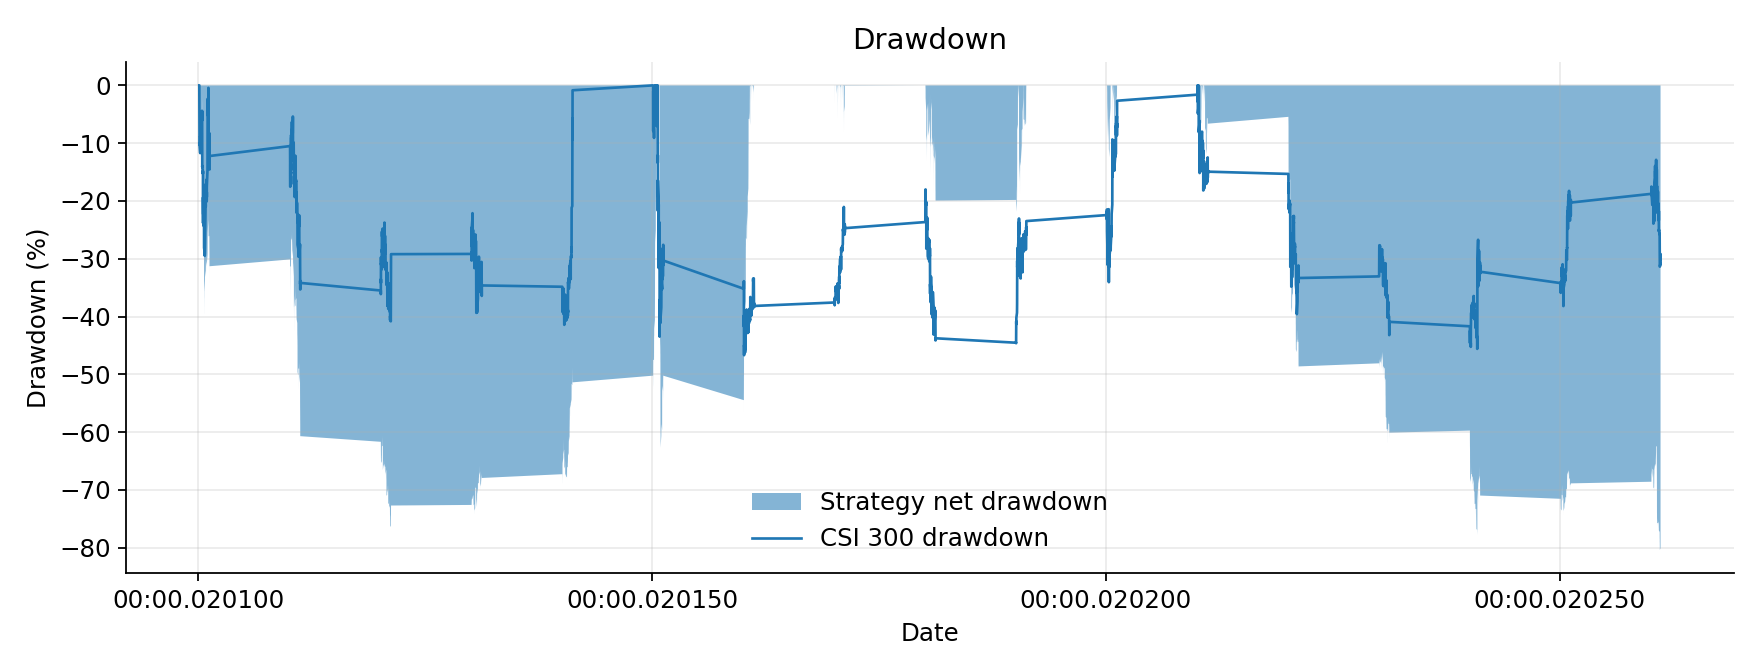
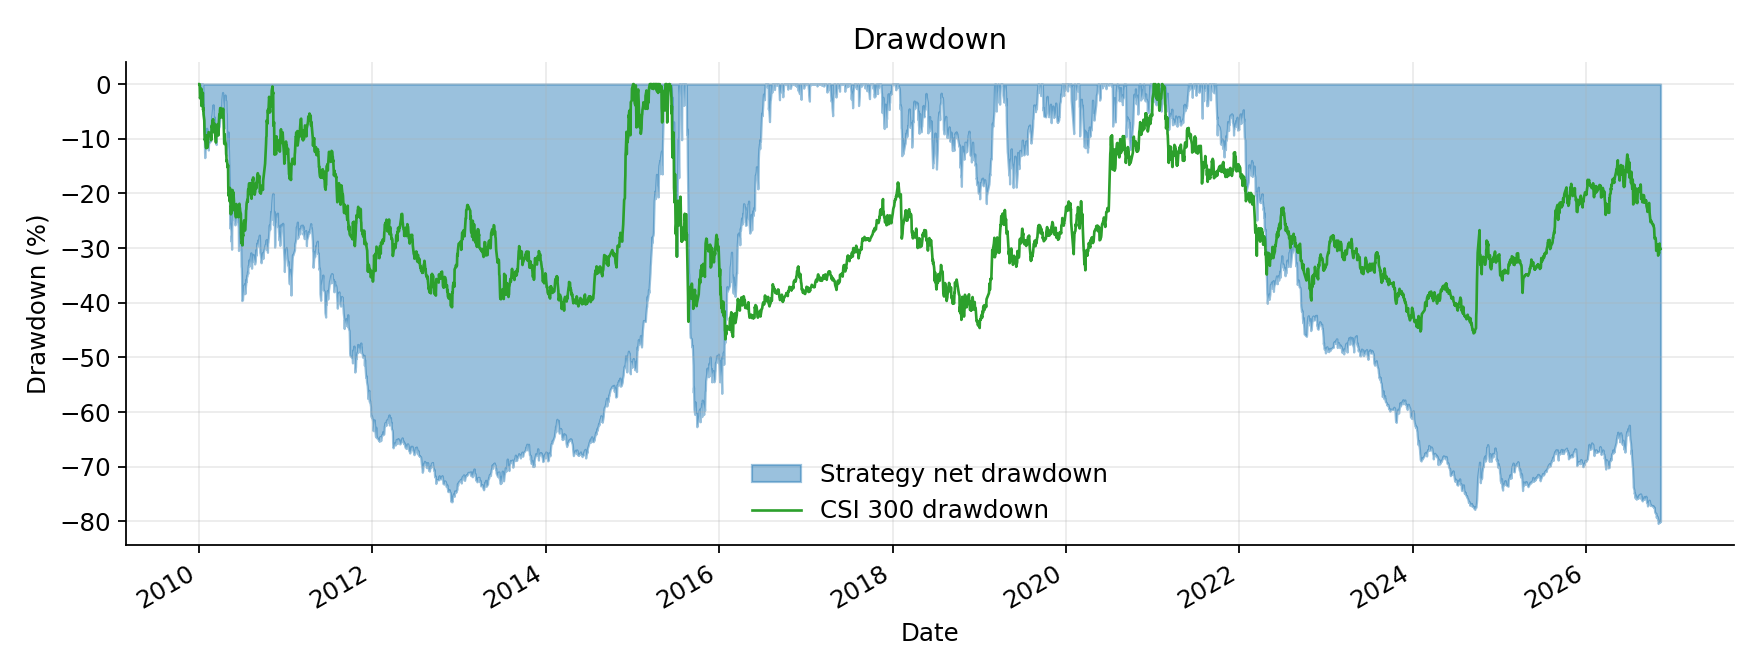
Fix equity-curve date parsing so charts render as continuous time series.
YYYYMMDD ints were parsed as nanoseconds, which crushed the x-axis into a vertical mess.

diff --git a/plot_results.py b/plot_results.py
@@ -30,30 +30,37 @@ def main() -> None:
     FIG.mkdir(parents=True, exist_ok=True)
 
     nav = pd.read_csv(OUT / "nav.csv")
-    nav["trade_date"] = pd.to_datetime(nav["trade_date"])
+    # CSV may store dates as ints like 20100104; force YYYYMMDD parsing
+    nav["trade_date"] = pd.to_datetime(nav["trade_date"].astype(str), format="%Y%m%d")
     yearly = pd.read_csv(OUT / "yearly.csv")
 
-    # 1) NAV curves
-    fig, ax = plt.subplots(figsize=(11, 5.5))
-    ax.plot(nav["trade_date"], nav["strategy_nav"], label="Strategy (net of costs)", lw=1.8)
-    ax.plot(nav["trade_date"], nav["strategy_nav_gross"], label="Strategy (gross)", lw=1.2, alpha=0.75)
-    ax.plot(nav["trade_date"], nav["bench_nav"], label="CSI 300", lw=1.4)
-    ax.set_title("Equity Curve: MACD Water Golden-Cross vs CSI 300")
-    ax.set_xlabel("Date")
-    ax.set_ylabel("NAV (start = 1)")
-    ax.legend(frameon=False)
+    # 1) NAV curves — dual panel so gross scale does not crush net/bench
+    fig, axes = plt.subplots(2, 1, figsize=(11, 7.2), sharex=True, gridspec_kw={"height_ratios": [1.15, 1]})
+    axes[0].plot(nav["trade_date"], nav["strategy_nav"], label="Strategy (net of costs)", color="#1f77b4", lw=1.6)
+    axes[0].plot(nav["trade_date"], nav["bench_nav"], label="CSI 300", color="#2ca02c", lw=1.4)
+    axes[0].set_ylabel("NAV (start = 1)")
+    axes[0].set_title("Equity Curve: MACD Water Golden-Cross vs CSI 300")
+    axes[0].legend(frameon=False, loc="upper left")
+
+    axes[1].plot(nav["trade_date"], nav["strategy_nav_gross"], label="Strategy (gross, no costs)", color="#ff7f0e", lw=1.4)
+    axes[1].plot(nav["trade_date"], nav["strategy_nav"], label="Strategy (net)", color="#1f77b4", lw=1.2, alpha=0.85)
+    axes[1].set_xlabel("Date")
+    axes[1].set_ylabel("NAV (start = 1)")
+    axes[1].legend(frameon=False, loc="upper left")
+    fig.autofmt_xdate()
     fig.tight_layout()
     fig.savefig(FIG / "equity_curve.png", dpi=160)
     plt.close(fig)
 
     # 2) Drawdown
     fig, ax = plt.subplots(figsize=(11, 4.2))
-    ax.fill_between(nav["trade_date"], nav["drawdown"] * 100, 0, alpha=0.55, label="Strategy net drawdown")
-    ax.plot(nav["trade_date"], nav["bench_drawdown"] * 100, lw=1.2, label="CSI 300 drawdown")
+    ax.fill_between(nav["trade_date"], nav["drawdown"] * 100, 0, alpha=0.45, color="#1f77b4", label="Strategy net drawdown")
+    ax.plot(nav["trade_date"], nav["bench_drawdown"] * 100, color="#2ca02c", lw=1.2, label="CSI 300 drawdown")
     ax.set_title("Drawdown")
     ax.set_xlabel("Date")
     ax.set_ylabel("Drawdown (%)")
     ax.legend(frameon=False)
+    fig.autofmt_xdate()
     fig.tight_layout()
     fig.savefig(FIG / "drawdown.png", dpi=160)
     plt.close(fig)
@@ -77,23 +84,23 @@ def main() -> None:
 
     # 4) Holdings + turnover proxy
     fig, ax1 = plt.subplots(figsize=(11, 4.2))
-    ax1.plot(nav["trade_date"], nav["n_hold"], color="#1f77b4", lw=1.0, label="Holdings")
+    ax1.plot(nav["trade_date"], nav["n_hold"], color="#1f77b4", lw=0.9, label="Holdings")
     ax1.set_ylabel("Number of holdings")
     ax1.set_xlabel("Date")
     ax2 = ax1.twinx()
     tmp = nav.copy()
     tmp["tw_turnover"] = (tmp["turnover_buy"] + tmp["turnover_sell"]) * 100
     tmp["month"] = tmp["trade_date"].dt.to_period("M")
-    m = (
-        tmp.groupby("month", as_index=False)
-        .agg(trade_date=("trade_date", "last"), turnover=("tw_turnover", "mean"))
+    m = tmp.groupby("month", as_index=False).agg(
+        trade_date=("trade_date", "last"),
+        turnover=("tw_turnover", "mean"),
     )
     ax2.plot(
         m["trade_date"],
         m["turnover"],
         color="#ff7f0e",
-        lw=1.2,
-        alpha=0.85,
+        lw=1.3,
+        alpha=0.9,
         label="Avg daily turnover %",
     )
     ax2.set_ylabel("Avg daily two-way turnover (%)")
@@ -101,6 +108,7 @@ def main() -> None:
     lines1, labels1 = ax1.get_legend_handles_labels()
     lines2, labels2 = ax2.get_legend_handles_labels()
     ax1.legend(lines1 + lines2, labels1 + labels2, frameon=False, loc="upper left")
+    fig.autofmt_xdate()
     fig.tight_layout()
     fig.savefig(FIG / "holdings_turnover.png", dpi=160)
     plt.close(fig)
